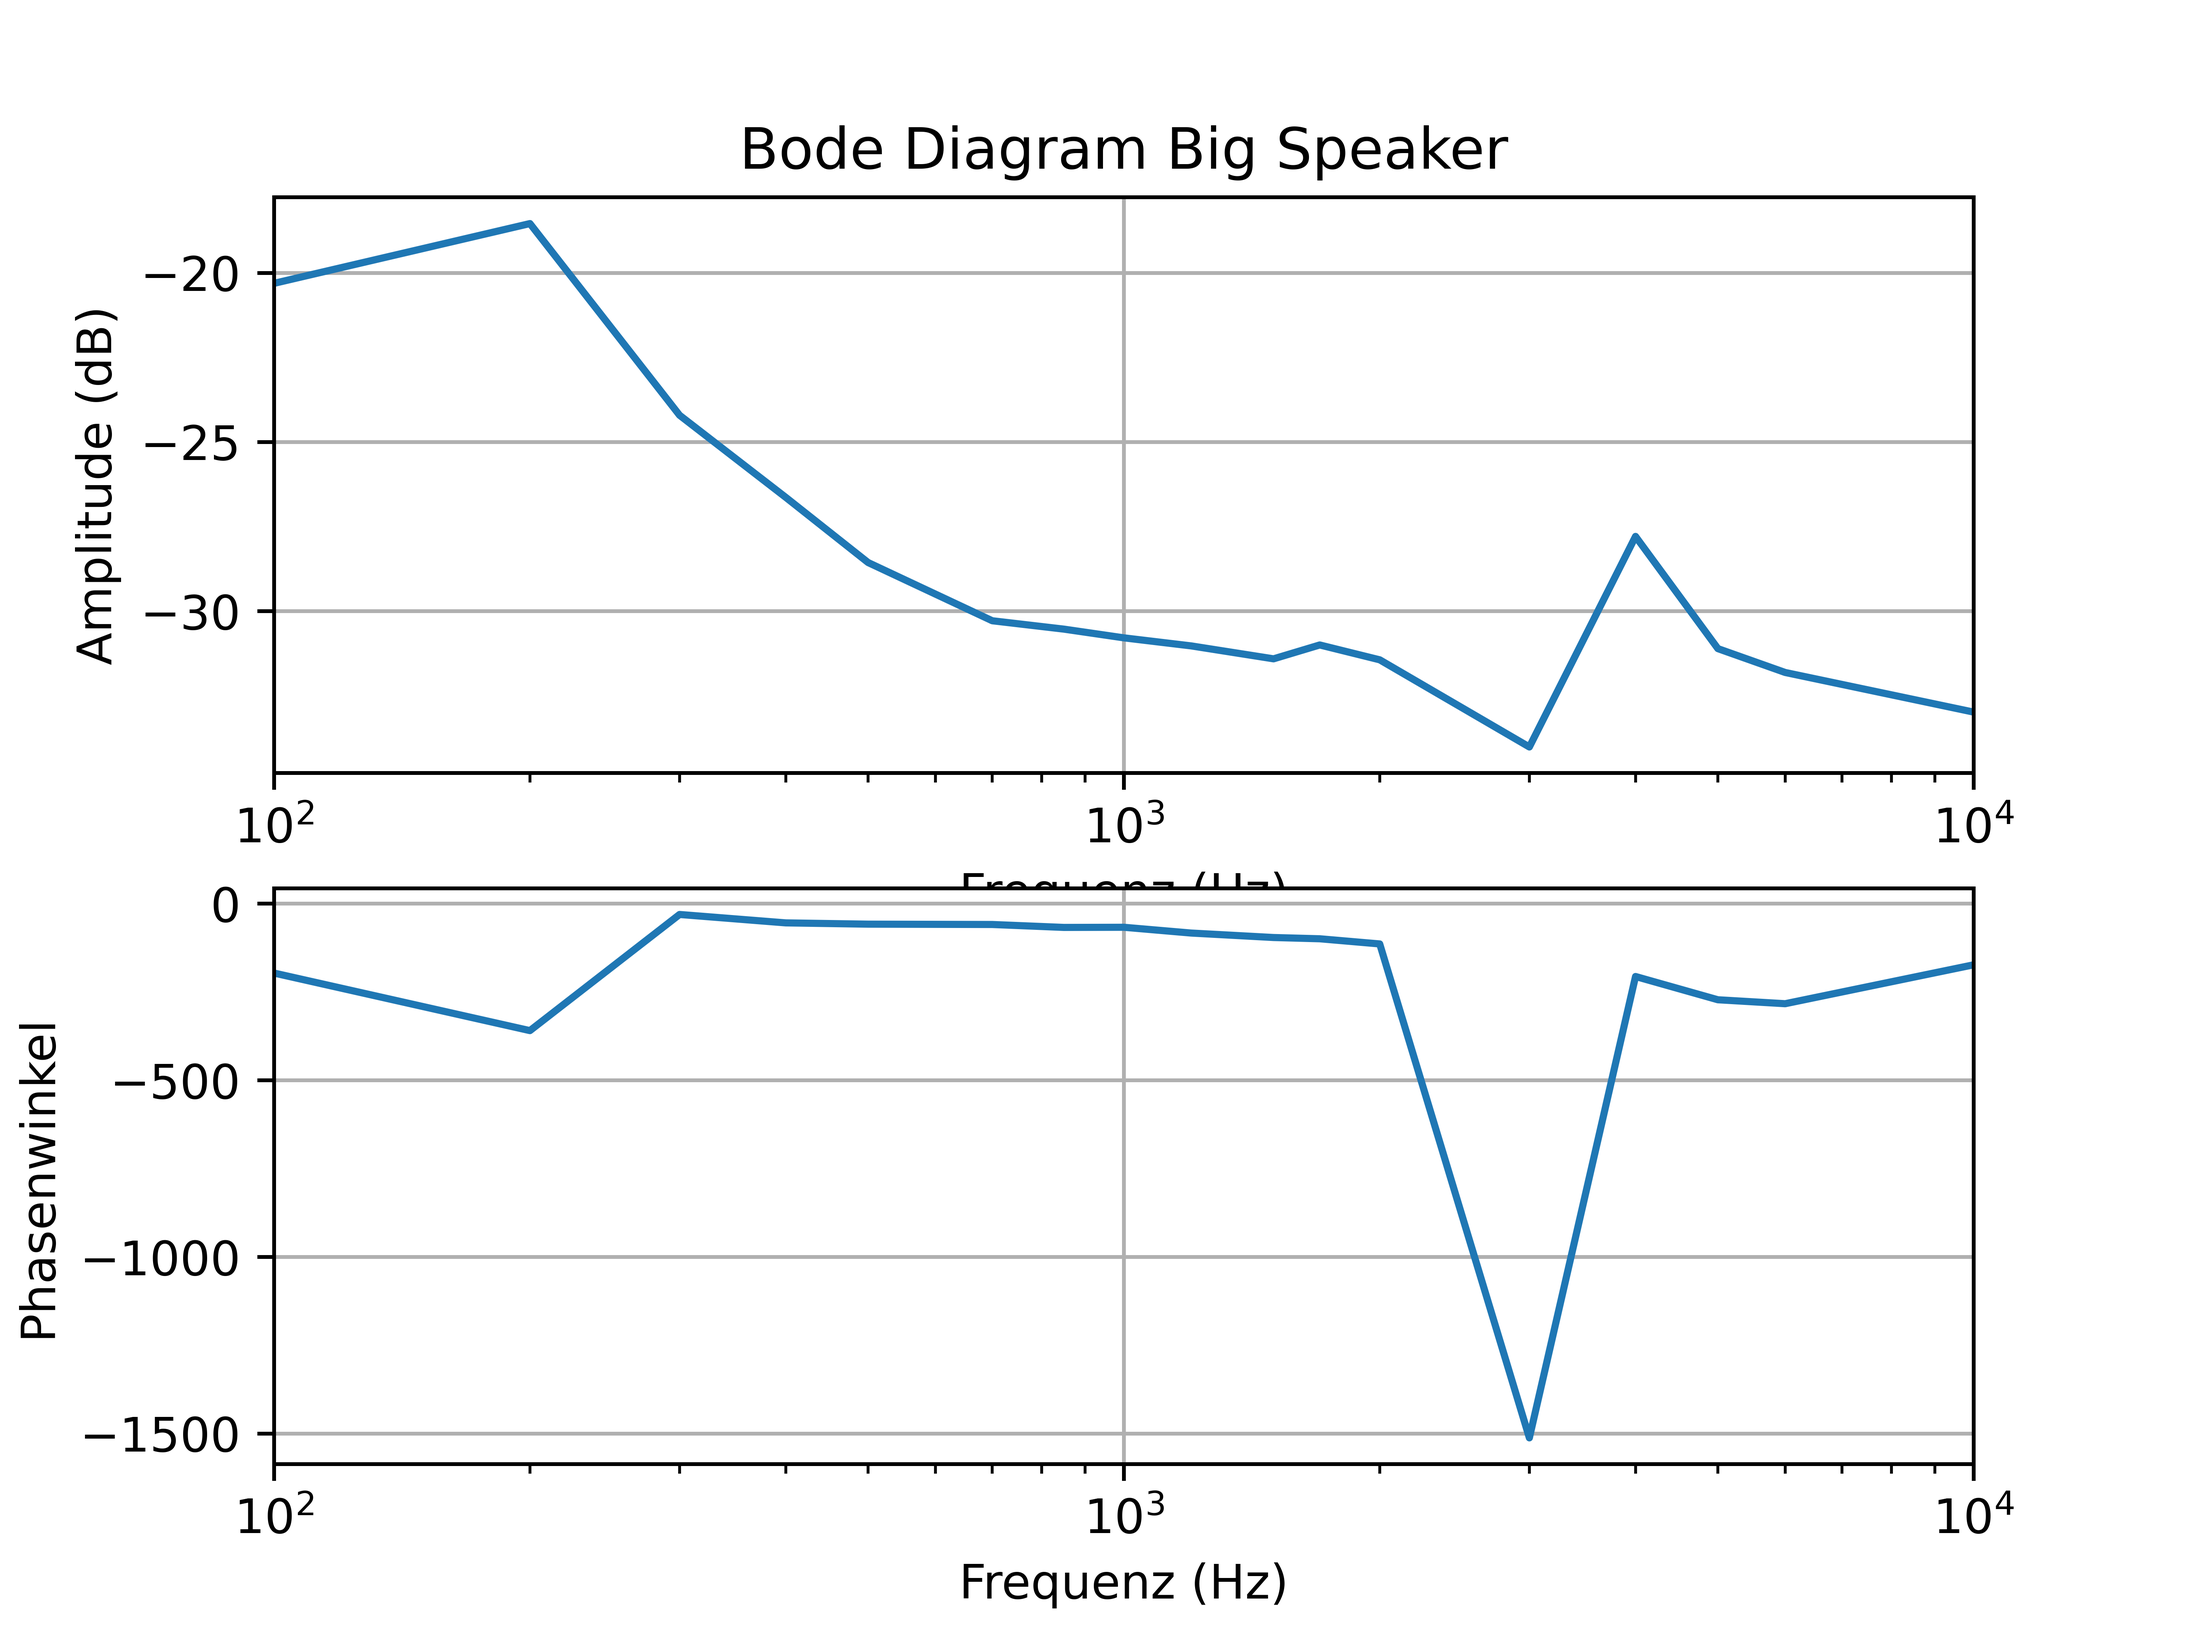
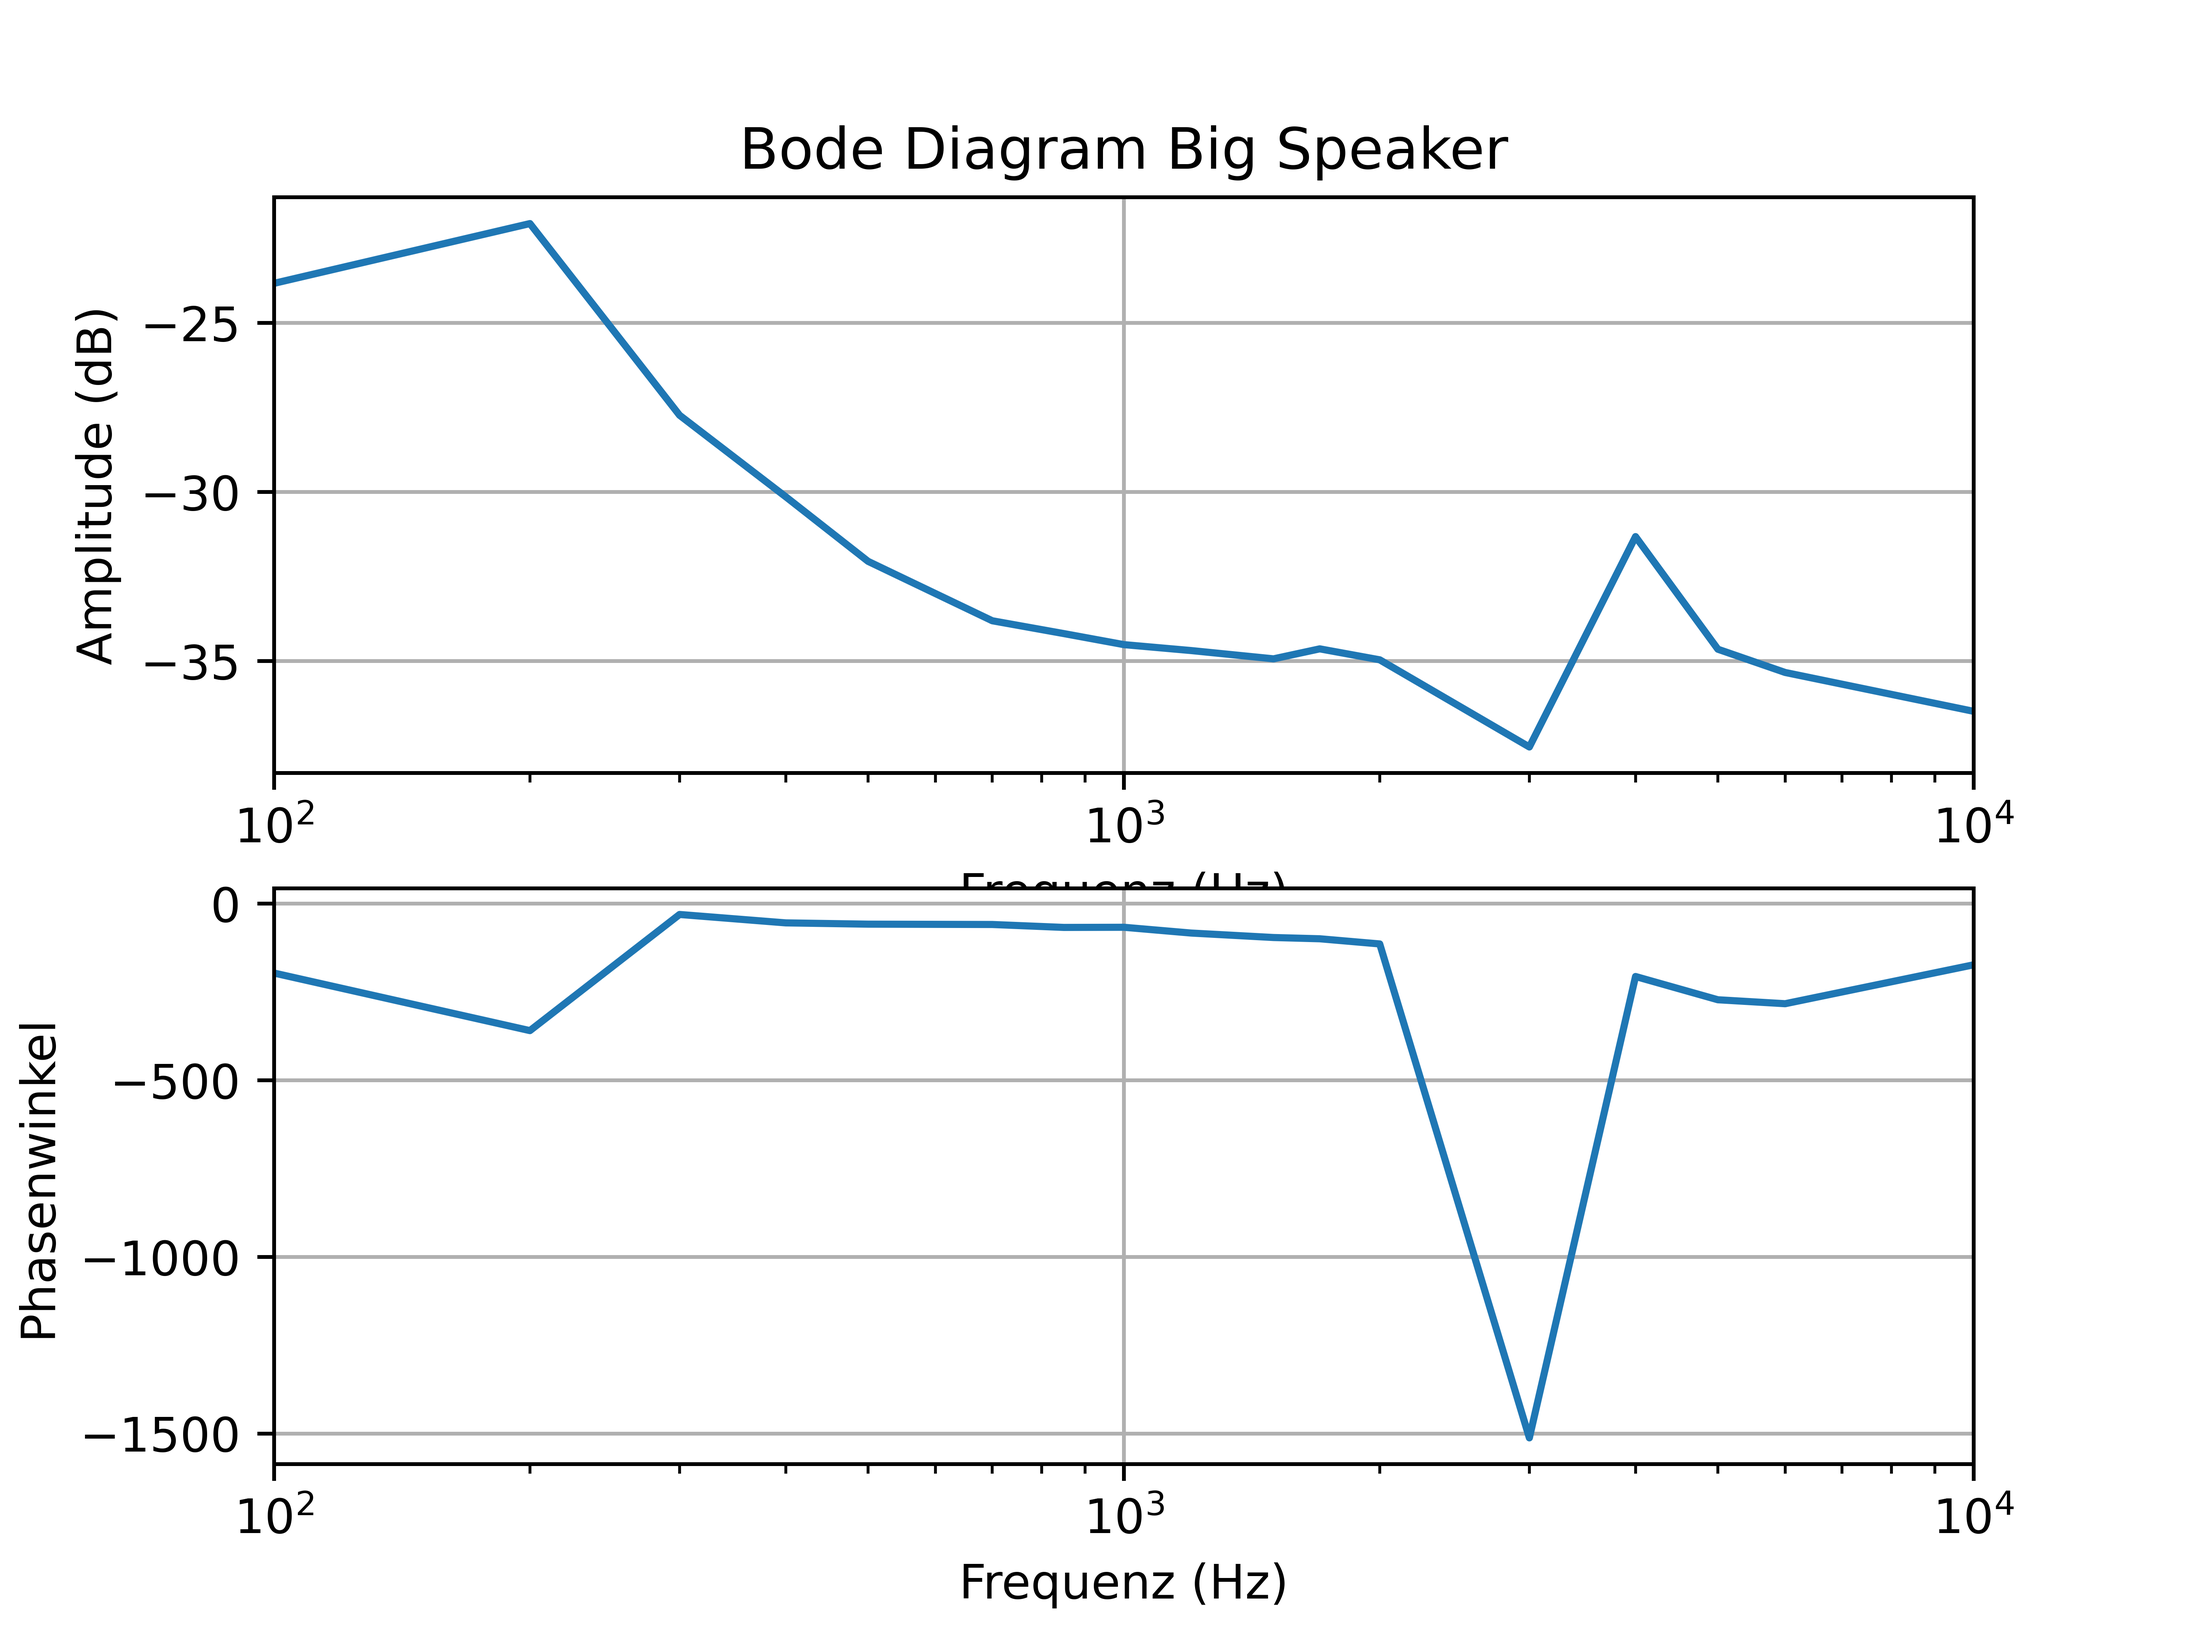
Bode Diagramm mit Amplitudengang berechnen

diff --git a/Versuch3/versuch3.py b/Versuch3/versuch3.py
@@ -48,30 +48,33 @@ plt.show()
 # -------------------------------
 
 # Frequenz, Amplitude in mV, Phasenverschiebung in ms
-bigSpeaker = np.array([[100, 96.53, 5.451], [200, 118.3, 4.988], [300, 61.61, 0.281], [400, 46.59, 0.376],
-                       [500, 37.32, 0.321], [700, 30.61, 0.233], [850, 29.75, 0.219], [1000, 28.88, 0.185],
-                       [1200, 28.1, 0.192], [1500, 26.89, 0.177], [1700, 28.19, 0.162], [2000, 26.8, 0.158],
-                       [3000, 19.92, 1.40], [4000, 40.79, 0.143], [5000, 27.84, 0.151], [6000, 25.67, 0.131],
-                       [10000, 22.43, 0.048]])
+bigSpeaker = np.array([[100, 96.53, 5.451, 1.5], [200, 118.3, 4.988, 1.5], [300, 61.61, 0.281, 1.5], [400, 46.59, 0.376, 1.497],
+                       [500, 37.32, 0.321, 1.494], [700, 30.61, 0.233, 1.5], [850, 29.75, 0.219, 1.523], [1000, 28.88, 0.185, 1.535],
+                       [1200, 28.1, 0.192, 1.524], [1500, 26.89, 0.177, 1.5], [1700, 28.19, 0.162, 1.52], [2000, 26.8, 0.158, 1.5],
+                       [3000, 19.92, 1.40, 1.5], [4000, 40.79, 0.143, 1.501], [5000, 27.84, 0.151, 1.503], [6000, 25.67, 0.131, 1.5],
+                       [10000, 22.43, 0.048, 1.496]])
 
-smallSpeaker = np.array([[100, 10.91, 4.007], [200, 24.94, 3.163], [300, 39.75, 2.34], [400, 93.24, 1.986],
-                         [500, 126.4, 0.088], [700, 57.54, 0.213], [850, 45.42, 0.242], [1000, 37.02, 0.223],
-                         [1200, 28.02, 0.199], [1500, 36.85, 0.174], [1700, 32.91, 0.174], [2000, 33.6, 0.168],
-                         [3000, 27.97, 0.153], [4000, 14.24, 0.132], [5000, 33.34, 0.162], [6000, 14.24, 0.114],
-                         [10000, 16.45, 0.046]]) # Amplitudengang mit rein
+smallSpeaker = np.array([[100, 10.91, 4.007, 1.5], [200, 24.94, 3.163, 1.5], [300, 39.75, 2.34, 1.5], [400, 93.24, 1.986, 1.5],
+                         [500, 126.4, 0.088, 1.5], [700, 57.54, 0.213, 1.5], [850, 45.42, 0.242, 1.5], [1000, 37.02, 0.223, 1.5],
+                         [1200, 28.02, 0.199, 1.493], [1500, 36.85, 0.174, 1.5], [1700, 32.91, 0.174, 1.5], [2000, 33.6, 0.168, 1.5],
+                         [3000, 27.97, 0.153, 1.5], [4000, 14.24, 0.132, 1.5], [5000, 33.34, 0.162, 1.5], [6000, 14.24, 0.114, 1.501],
+                         [10000, 16.45, 0.046, 1.5]])
 
 
 def plotBodeDiagramm(speaker, plotTitle, fileName):
     freq = speaker[:, :1]  # * 2 * np.pi
     phase = (speaker[:, 2:3] / -1000) * speaker[:, :1] * 360
     amp = speaker[:, 1:2] / 1000
+    ampin = speaker[:, 3:4]
+    # Amplitudengang berechnen
+    ampdiv = amp / ampin
 
     plt.figure()
     plt.subplot(211)
     plt.title('Bode Diagram ' + plotTitle)
     plt.xlabel('Frequenz (Hz)')
     plt.ylabel('Amplitude (dB)')
-    plt.semilogx(freq, 20 * np.log10(abs(amp)))
+    plt.semilogx(freq, 20 * np.log10(abs(ampdiv)))
     # plt.xlim(speaker[0,0] * 2 * np.pi, speaker[16,0] * 2 * np.pi)
     plt.xlim(speaker[0, 0], speaker[16, 0])
     plt.grid()
